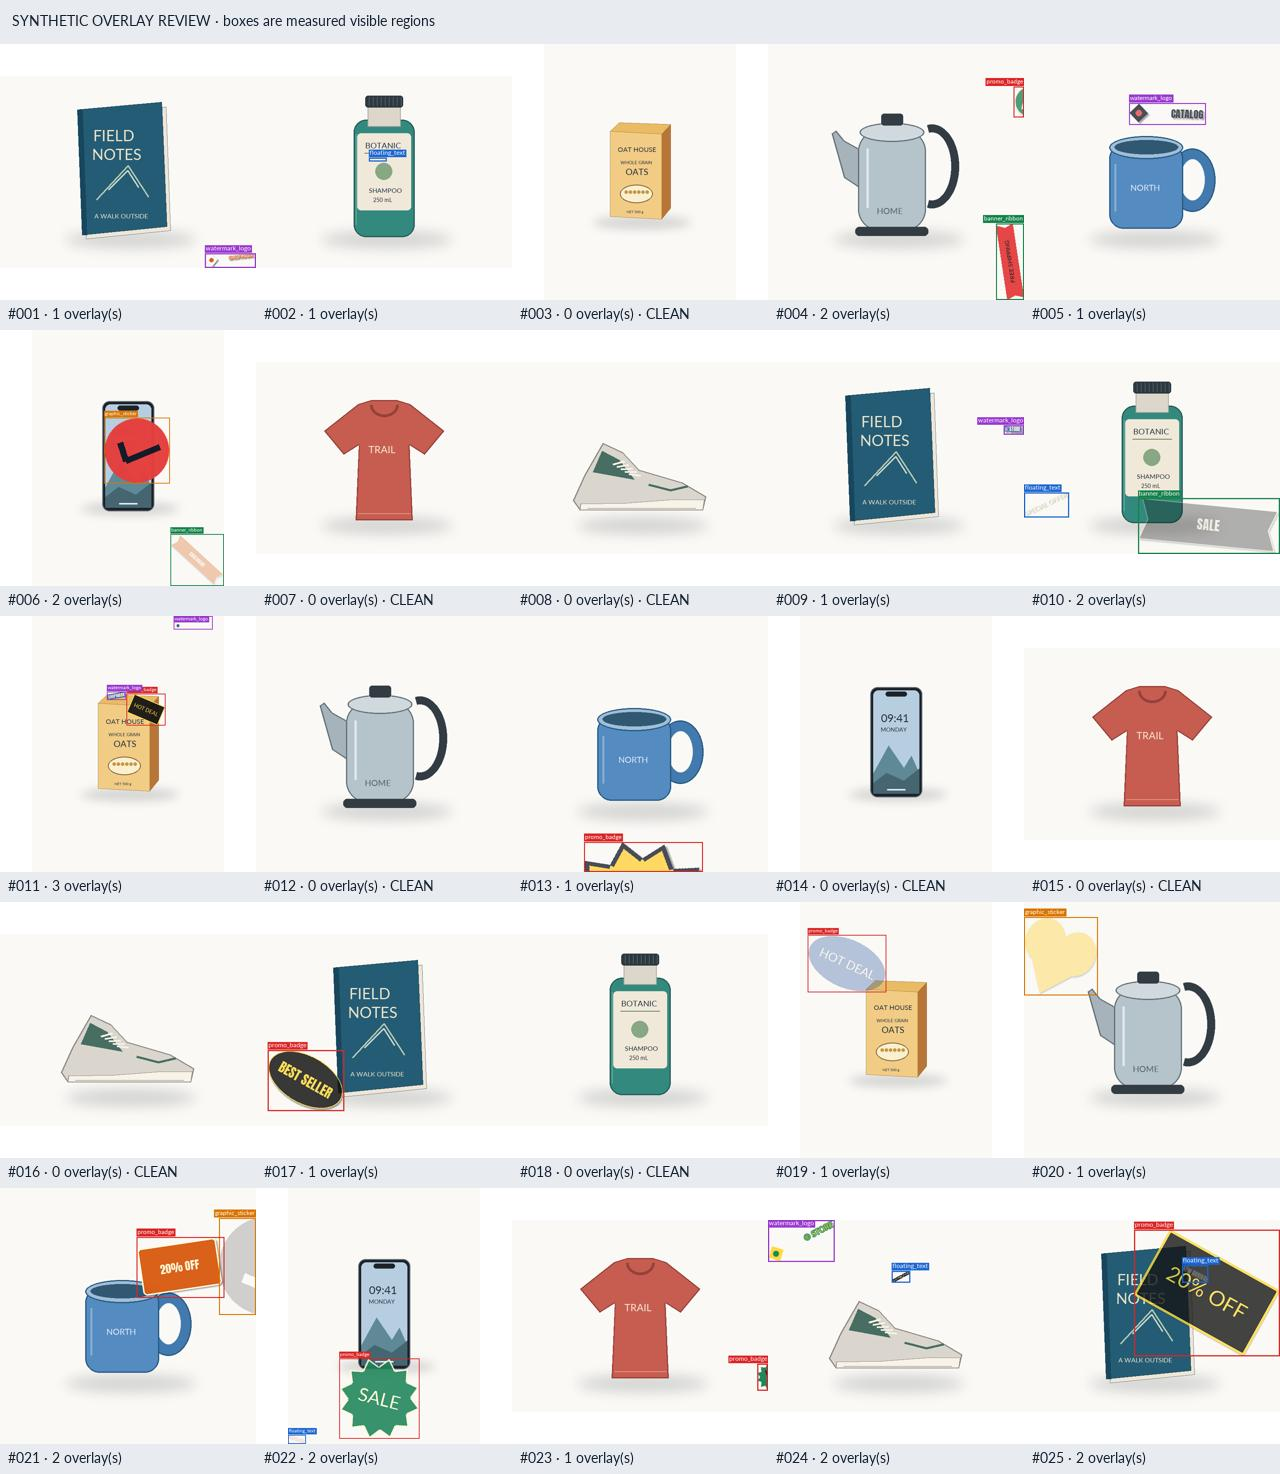
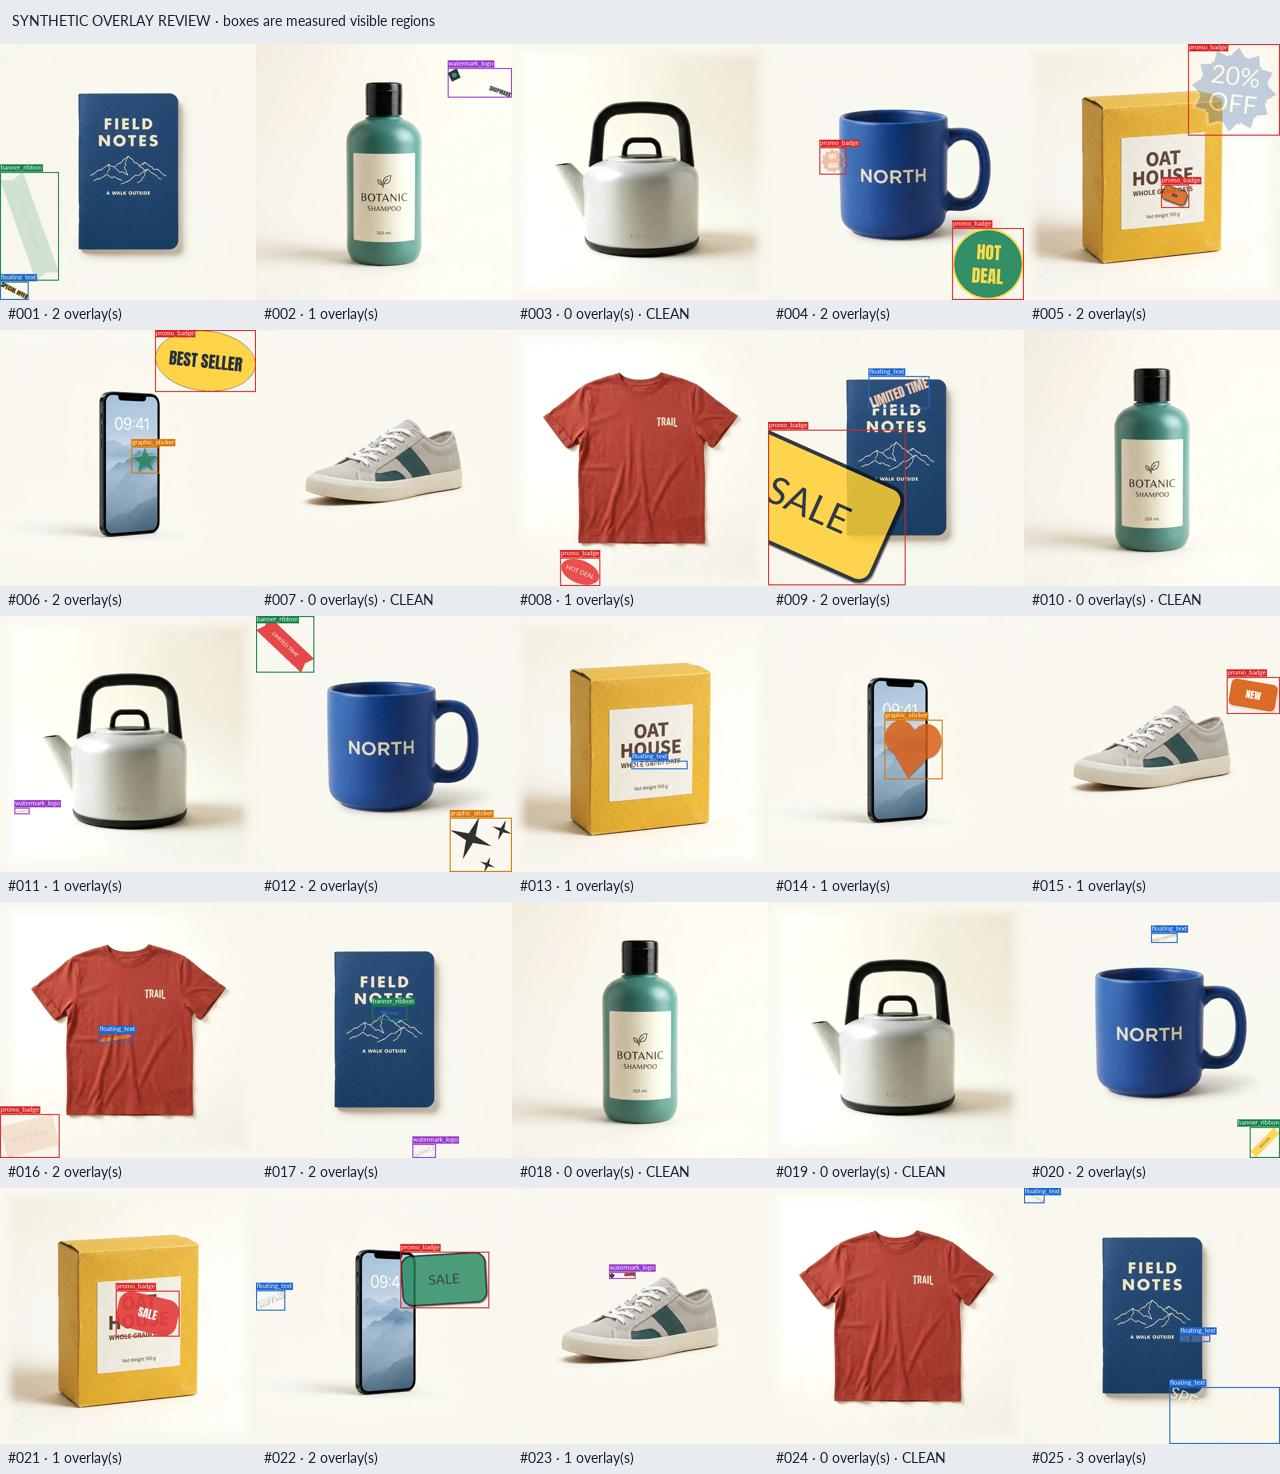
Use product photos on the slide 7 contact sheet; sync artifact edits
Re-render synthetic_contact_sheet.jpg with the overlay project's generator
over the prod-* photos, adding Gemini-generated oats, kettle and t-shirt
photos to complete the product set. Also pulls in four text edits made in
the published artifact.

diff --git a/index.html b/index.html
@@ -341,7 +341,7 @@ body.with-notes #edit-bar{bottom:calc(224px + env(safe-area-inset-bottom,0px))}
     <div>
       <span class="kicker">Claude Code Meetup</span>
       <h1>From dataset <em>to model</em></h1>
-      <p class="sub">ML development with coding agents, told as one engineer's week.</p>
+      <p class="sub">ML development with coding agents</p>
       <p class="by">Enrique Munguía · 30/10/2026</p>
       <p class="keys"><kbd>→</kbd> next &nbsp; <kbd>←</kbd> back &nbsp; <kbd>N</kbd> notes &nbsp; <kbd>F</kbd> fullscreen &nbsp; <kbd>?</kbd> help</p>
     </div>
@@ -351,7 +351,7 @@ body.with-notes #edit-bar{bottom:calc(224px + env(safe-area-inset-bottom,0px))}
 
 <!-- 2 · The task -->
 <section class="slide" id="slide-2">
-  <header class="s-head"><span class="kicker">The task</span><h2>Find the overlays.</h2></header>
+  <header class="s-head"><span class="kicker">The task</span><h2>Find the overlays on a product image</h2></header>
   <div class="s-body">
     <div class="fig">
       <svg class="ill" viewBox="0 0 960 600" aria-label="A product photo of a mug. Five kinds of digital overlay appear one by one, each with a labeled bounding box.">
@@ -491,7 +491,7 @@ body.with-notes #edit-bar{bottom:calc(224px + env(safe-area-inset-bottom,0px))}
       <div class="agentline" data-step="3"><b>agent ›</b> Inspected sheet 000: digitally composited feature text and dimension arrows occur alongside printed product branding. Source review is necessary before any image feeds generation.</div>
     </div>
     <div class="who">
-      <div class="role agent" data-step="1"><span class="tag"><svg><use href="#i-agent"/></svg>Agent</span><p>Found Amazon Berkeley Objects. Wrote the downloader: safe to rerun, every file verified.</p></div>
+      <div class="role agent" data-step="1"><span class="tag"><svg><use href="#i-agent"/></svg>Agent</span><p>Found Amazon Berkeley Objects. Wrote the downloader and verified all the files.</p></div>
       <div class="role auto" data-step="2"><span class="tag"><svg><use href="#i-auto"/></svg>Automate</span><p>Review sheets for every batch. Same seed, same 1,000 images, every run.</p></div>
       <div class="role human" data-step="3"><span class="tag"><svg><use href="#i-human"/></svg>Human</span><p>Look at the sheets. Decide whether this data is the problem you are solving.</p></div>
     </div>
@@ -541,10 +541,10 @@ body.with-notes #edit-bar{bottom:calc(224px + env(safe-area-inset-bottom,0px))}
           </g>
         </g>
       </svg>
-      <div class="sheet" data-step="3"><img src="assets/synthetic_contact_sheet.jpg" alt="A 25-image contact sheet of synthetic overlays on illustrated products, with labeled boxes."><svg viewBox="0 0 960 600" style="position:absolute;inset:0;width:100%;height:100%" aria-hidden="true"><g transform="rotate(-12 700 160)"><rect x="520" y="110" width="360" height="100" rx="10" fill="none" stroke="#ffcf32" stroke-width="5"/><text x="700" y="178" text-anchor="middle" class="stamp fill" font-size="54">LOOKS GOOD ✓</text></g></svg><div class="tagline"><b>Gate 1</b> · 100 images, 128 boxes, 20 negatives · the agent waited</div></div>
+      <div class="sheet" data-step="3"><img src="assets/synthetic_contact_sheet.jpg" alt="A 25-image contact sheet of synthetic overlays on product photos, with labeled boxes."><svg viewBox="0 0 960 600" style="position:absolute;inset:0;width:100%;height:100%" aria-hidden="true"><g transform="rotate(-12 700 160)"><rect x="520" y="110" width="360" height="100" rx="10" fill="none" stroke="#ffcf32" stroke-width="5"/><text x="700" y="178" text-anchor="middle" class="stamp fill" font-size="54">LOOKS GOOD ✓</text></g></svg><div class="tagline"><b>Gate 1</b> · 100 images, 128 boxes, 20 negatives · the agent waited</div></div>
     </div>
     <div class="who">
-      <div class="role agent" data-step="1"><span class="tag"><svg><use href="#i-agent"/></svg>Agent</span><p>Built a generator for all five classes: shapes, fonts, placement, opacity, occlusion, clipped boxes, COCO export. 108 tests.</p></div>
+      <div class="role agent" data-step="1"><span class="tag"><svg><use href="#i-agent"/></svg>Agent</span><p>Built a generator for all five classes: shapes, fonts, placement, opacity, occlusion, clipped boxes. 108 tests.</p></div>
       <div class="role auto" data-step="2"><span class="tag"><svg><use href="#i-auto"/></svg>Automate</span><p>Every image is replayable from its record. A single box with bad coordinates, like zero size or a box outside the image, fails validation for the whole dataset.</p></div>
       <div class="role human" data-step="3"><span class="tag"><svg><use href="#i-human"/></svg>Human</span><p>Look at the contact sheet. <q>Bad synthetic data makes the experiment look successful while teaching the wrong problem.</q></p></div>
     </div>

diff --git a/README.md b/README.md
@@ -67,7 +67,11 @@ Fonts load from Google Fonts first and fall back to the local files when offline
 
 `prod-*.webp` are product photos generated with Gemini (`gemini-3-pro-image-preview`),
 color-matched to the `#faf7ef` panel and feathered at the edges. The SVG overlays and boxes
-sit on top of them. `false_negative.jpg` (slide 15) is a re-render of the evaluator's
+sit on top of them. `prod-oats`, `prod-kettle` and `prod-tshirt` were added later the same
+way to complete the product set. `synthetic_contact_sheet.jpg` (slide 7) is a re-render: the
+`overlay` project's real generator (`scripts/generate_synthetic.py`, default config, seed 42,
+100 samples) run over the eight `prod-*` photos in place of the original illustrated fixtures.
+`false_negative.jpg` (slide 15) is a re-render of the evaluator's
 error image built from `prod-shoe` with the same composited watermark.
 
 The ABO review sheet shows images from Amazon Berkeley Objects (CC BY 4.0,
